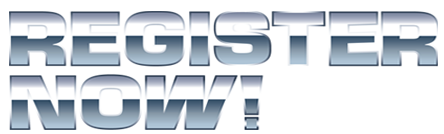
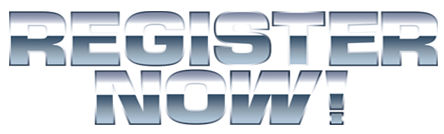
Tweaks for user lander font scaling

Changed region(s): [[0.0, 0.5075, 0.7905, 0.9851], [0.732, 0.6866, 0.7905, 0.9552]]

diff --git a/app/assets/stylesheets/signup.css.scss b/app/assets/stylesheets/signup.css.scss
@@ -84,6 +84,10 @@ $break-large: 1200px;
             font-size: 81pt;
             line-height: 70pt;
             color: #fff;
+            @media screen and (max-width: $break-small) {
+                font-size: 50pt;
+                line-height: 40pt;
+            }
         }
         h1.bottom{
             font-family: 'crackhouseregular';
@@ -91,6 +95,10 @@ $break-large: 1200px;
             line-height: 61pt;
             color: #fff;
             margin-bottom: 60px;
+             @media screen and (max-width: $break-small) {
+                font-size: 38pt;
+                line-height: 0pt;
+            }
         }
     }
 
@@ -390,13 +398,14 @@ $break-large: 1200px;
             line-height: 40pt;
             margin: auto;
             text-decoration: none;
-            padding-top: 10px;
+            padding-top: 20px;
             @media screen and (min-width: $break-large) {
-                font-size: 33pt;
-                
+                font-size: 65pt;
+                padding-bottom: 21px;
             }
             @media screen and (min-width: $break-small) and (max-width: $break-large){
-                font-size: 28pt;
+                font-size: 50pt;
+                padding-bottom: 21px;
                 
             }   
         
@@ -418,7 +427,7 @@ $break-large: 1200px;
 
         h3{
             font-family: 'OldStamperRegular';
-            font-size: 17pt;
+            font-size: 15pt;
             color: #92BE6E;
             line-height: 32pt;
             margin: auto;
